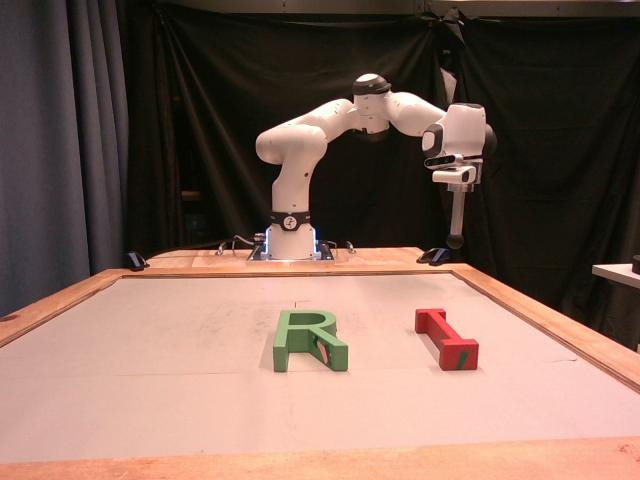
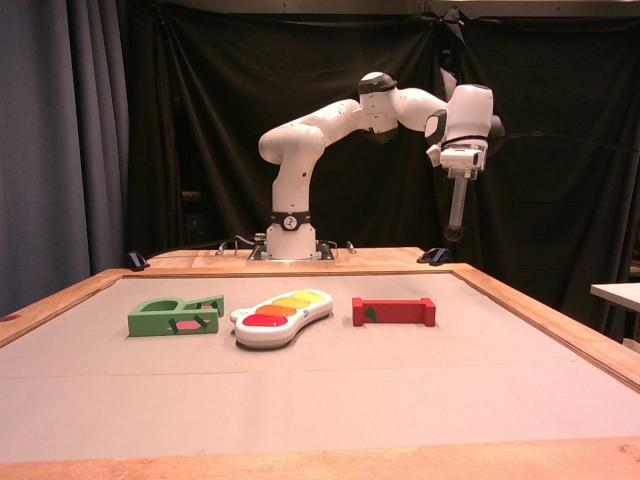
fix: check randomized goals if they are overlapping or outside of the workspace

diff --git a/scripts/push_anything_perception_gui.py b/scripts/push_anything_perception_gui.py
@@ -108,9 +108,9 @@ class PushAnythingPerceptionGUI(QWidget):
         self.masks_dir = os.path.join(self.bundle_sdf_dir, "assets")
 
         # # TODO: will be removed once the testings on MacOS are done
-        # self.mesh_assets_dir = "/Users/hienbui/Downloads/assets_textured"
-        # self.foundation_pose_dir = "/Users/hienbui/Downloads"
-        # self.masks_dir = "/Users/hienbui/Downloads"
+        self.mesh_assets_dir = "/Users/hienbui/Downloads/assets_textured"
+        self.foundation_pose_dir = "/Users/hienbui/Downloads"
+        self.masks_dir = "/Users/hienbui/Downloads"
 
         self.setWindowTitle("Push Anything Perception GUI")
         self.resize(2000, 1500)
@@ -392,6 +392,8 @@ class PushAnythingPerceptionGUI(QWidget):
         object_indices = list(range(n))
         rng.shuffle(object_indices)
         region_edges = np.linspace(wy0, wy1, n + 1)
+        placed_polygons = []
+        max_attempts = 200
 
         for region_idx, obj_idx in enumerate(object_indices):
             state = self.object_states[obj_idx]
@@ -410,10 +412,75 @@ class PushAnythingPerceptionGUI(QWidget):
             if y_min > y_max:
                 y_min = float(region_edges[region_idx])
                 y_max = float(region_edges[region_idx + 1])
+            if x_min > x_max or y_min > y_max:
+                logger.warning(
+                    "Random goal region invalid for '{}'; keeping existing goal.",
+                    _display_object_name(state["name"]),
+                )
+                placed_polygons.append(
+                    Polygon(
+                        self._rect_corners(
+                            state["goal_cx"],
+                            state["goal_cy"],
+                            dx,
+                            dy,
+                            state["goal_angle"],
+                        )
+                    )
+                )
+                continue
 
-            state["goal_cx"] = float(rng.uniform(x_min, x_max))
-            state["goal_cy"] = float(rng.uniform(y_min, y_max))
-            state["goal_angle"] = float(rng.uniform(-180.0, 180.0))
+            accepted = False
+            for _ in range(max_attempts):
+                cand_cx = float(rng.uniform(x_min, x_max))
+                cand_cy = float(rng.uniform(y_min, y_max))
+                cand_angle = float(rng.uniform(-180.0, 180.0))
+                corners = self._rect_corners(cand_cx, cand_cy, dx, dy, cand_angle)
+
+                inside_workspace = True
+                for x, y in corners:
+                    if not (wx0 <= x <= wx1 and wy0 <= y <= wy1):
+                        inside_workspace = False
+                        break
+                if not inside_workspace:
+                    continue
+
+                cand_poly = Polygon(corners)
+                overlaps_existing = False
+                for placed_poly in placed_polygons:
+                    if (
+                        cand_poly.intersects(placed_poly)
+                        or cand_poly.distance(placed_poly) < 1e-6
+                    ):
+                        overlaps_existing = True
+                        break
+                if overlaps_existing:
+                    continue
+
+                state["goal_cx"] = cand_cx
+                state["goal_cy"] = cand_cy
+                state["goal_angle"] = cand_angle
+                placed_polygons.append(cand_poly)
+                accepted = True
+                break
+
+            if not accepted:
+                logger.warning(
+                    "Could not find non-overlapping in-workspace random goal for '{}' after {} attempts; keeping existing goal.",
+                    _display_object_name(state["name"]),
+                    max_attempts,
+                )
+                placed_polygons.append(
+                    Polygon(
+                        self._rect_corners(
+                            state["goal_cx"],
+                            state["goal_cy"],
+                            dx,
+                            dy,
+                            state["goal_angle"],
+                        )
+                    )
+                )
 
     def on_randomize_goals(self) -> None:
         logger.info("User pressed Randomize Goals")
@@ -741,10 +808,10 @@ class PushAnythingPerceptionGUI(QWidget):
         self.canvas.show()
         self.image_label.hide()
 
-        subprocess.Popen(
-            [sys.executable, self.auto_tracking_gui_path],
-            cwd=self.bundle_sdf_dir,
-        )
+        # subprocess.Popen(
+        #     [sys.executable, self.auto_tracking_gui_path],
+        #     cwd=self.bundle_sdf_dir,
+        # )
 
         # Send only the object names to the controller
         # target poses are set to default values and will be ignored by the controller
